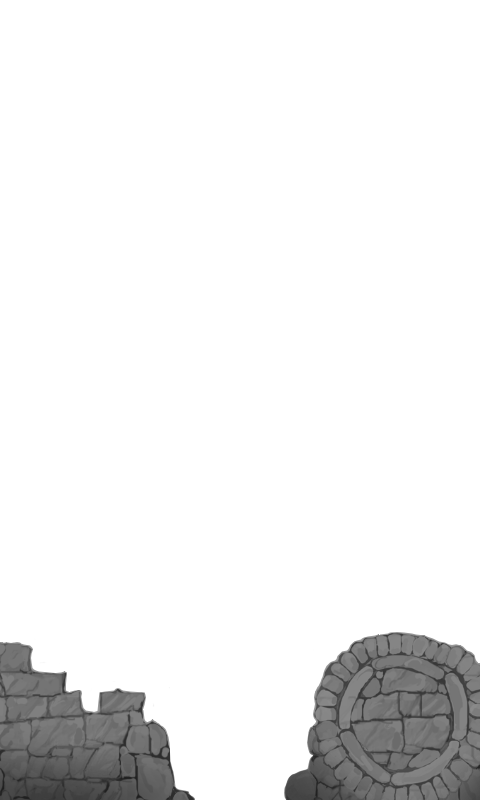
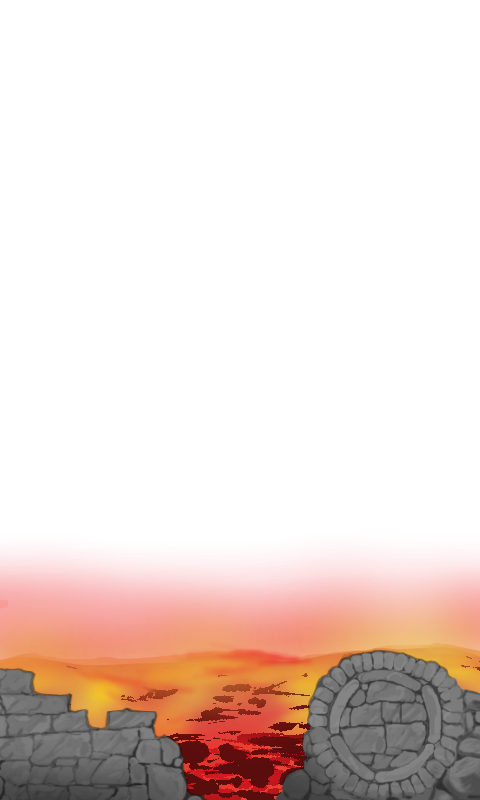
Changed bg and effects size Combined UI and DZ added spikes (no death mechanic yet)

Changed region(s): [[0.0, 0.6875, 1.0, 1.0], [0.0312, 0.9688, 0.0625, 1.0]]

diff --git a/core/src/com/mygdx/game/states/PlayState.java b/core/src/com/mygdx/game/states/PlayState.java
@@ -16,6 +16,7 @@ import com.mygdx.game.objects.Door;
 import com.mygdx.game.objects.Obstacle;
 import com.mygdx.game.objects.Power;
 import com.mygdx.game.objects.SideWall;
+import com.mygdx.game.objects.Spikes;
 import com.mygdx.game.objects.Switch;
 import com.mygdx.game.objects.JoyStick;
 import com.mygdx.game.objects.Player;
@@ -58,9 +59,9 @@ public abstract class PlayState extends State{
     private ArrayList<GameObject> switches = new ArrayList<GameObject>();
     private ArrayList<GameObject> doors = new ArrayList<GameObject>();
     private ArrayList<GameObject> powers = new ArrayList<GameObject>();
+    private ArrayList<GameObject> spikes = new ArrayList<GameObject>();
     private ArrayList<GameObject> bg = new ArrayList<GameObject>();
     private ArrayList<GameObject> effects = new ArrayList<GameObject>();
-    private ArrayList<GameObject> dz = new ArrayList<GameObject>();
     private ArrayList<GameObject> ui = new ArrayList<GameObject>();
     private ArrayList<GameObject> icons = new ArrayList<GameObject>();
 
@@ -98,11 +99,11 @@ public abstract class PlayState extends State{
         gameObjects.add(powers);
         gameObjects.add(doors);
         gameObjects.add(obstacles);
+        gameObjects.add(spikes);
         gameObjects.add(sideWalls);
         gameObjects.add(switches);
         gameObjects.add(new ArrayList<GameObject>(Collections.singletonList(player)));
         gameObjects.add(effects);
-        gameObjects.add(dz);
         gameObjects.add(ui);
         gameObjects.add(icons);
 
@@ -162,7 +163,7 @@ public abstract class PlayState extends State{
         }
         if (trackerBG <= 800) {
             spawnBg();
-            trackerBG += 800;
+            trackerBG += 200;
         }
         // tell the camera to update its matrices.
         cam.update();
@@ -237,13 +238,15 @@ public abstract class PlayState extends State{
     }
 
     private void createBg(){
-        Background backg = new Background(0);
-        Overlay effect = new Overlay(0);
-        DangerZone danger = new DangerZone(0);
+        int counter = 0;
+        while (counter*200 < 800) {
+            Background backg = new Background(counter*200);
+            Overlay effect = new Overlay(counter*200);
+            bg.add(backg);
+            effects.add(effect);
+            counter++;
+        }
         UI inter = new UI(0);
-        bg.add(backg);
-        effects.add(effect);
-        dz.add(danger);
         ui.add(inter);
     }
 
@@ -281,6 +284,8 @@ public abstract class PlayState extends State{
                 case DOOR:
                     doors.add(new Door((tileLength * (i % GAME_WIDTH)) + 15, tracker, tileLength, tileLength));
                     break;
+                case SPIKES:
+                    spikes.add(new Spikes((tileLength * (i % GAME_WIDTH)) + 15, tracker, tileLength, tileLength));
             }
         }
     }

diff --git a/core/src/com/mygdx/game/states/PlayStateHost.java b/core/src/com/mygdx/game/states/PlayStateHost.java
@@ -84,6 +84,15 @@ public class PlayStateHost extends PlayState {
             }
         }
 
+        // creating random spikes
+        int spikeNo = MathUtils.random(0,3);
+        for (int j = 0; j < spikeNo; j++) {
+            int pos = MathUtils.random(0,8);
+            if (new_row[pos] == MapTile.OBSTACLES){
+                new_row[pos] = MapTile.SPIKES;
+            }
+        }
+
         // spawning power ups after a certain time. 20 is default. 5 is for testing
         if (powerCounter > 20){
             while (true){
@@ -107,46 +116,8 @@ public class PlayStateHost extends PlayState {
         }
 
         // updating the memory
-        // 0 = wall, 1 = empty but unreachable, 2 = empty and reachable
-
         memory.remove(memory.size()-1);
         memory.add(0, new_row);
-
-//        for (int i = memory.length-1; i > 0; i--){
-//            System.arraycopy(memory[i-1],0,memory[i],0,memory[i-1].length);
-//        }
-//        for (int i = 0; i < new_row.length; i++){
-//            if (new_row[i] == MapTile.OBSTACLES){
-//                memory[0][i] = 0;
-//            }
-//            else if (new_row[i] == MapTile.EMPTY){
-//                memory[0][i] = 1;
-//            }
-//            if (current[i]){
-//                memory[0][i] = 2;
-//            }
-//        }
-//        for (int i = 1; i < memory.length; i++){
-//            int temp = 0;
-//            for (int j = 0; j < memory[i].length; j++){
-//                if ((memory[i-1][j] == 2) && (memory[i][j] == 1)){
-//                    memory[i][j] = 2;
-//                    temp = j;
-//                }
-//            }
-//            for (int j = 0; j < memory[i].length; j++){
-//                if (temp-j >= 0){
-//                    if ((memory[i][temp-j] == 1) && (memory[i][temp-j+1] == 2)){
-//                        memory[i][temp-j] = 2;
-//                    }
-//                }
-//                if ((temp+j < 9) && (temp+j-1 > 0)){
-//                    if ((memory[i][temp+j] == 1) && (memory[i][temp+j-1] == 2)){
-//                        memory[i][temp+j] = 2;
-//                    }
-//                }
-//            }
-//        }
 
         int i = out_index;
         int j = 0;

diff --git a/core/src/com/mygdx/game/objects/Spikes.java b/core/src/com/mygdx/game/objects/Spikes.java
@@ -1,0 +1,26 @@
+package com.mygdx.game.objects;
+
+import com.badlogic.gdx.Gdx;
+import com.badlogic.gdx.graphics.Texture;
+import com.mygdx.game.Interface.Collidable;
+import com.mygdx.game.states.PlayState;
+
+/**
+ * Created by Samuel on 26/3/2016.
+ */
+public class Spikes extends Movable implements Collidable {
+    public Spikes(float x, float y, float width, float height){
+        super(x, y, width, height);
+        this.setImage(new Texture(Gdx.files.internal("spikes.png")));
+    }
+
+    @Override
+    public boolean collides(Player player, PlayState playState) {
+        if (player.overlaps(this)) {
+            return true;
+        }
+        else {
+            return false;
+        }
+    }
+}

diff --git a/core/src/com/mygdx/game/objects/Background.java b/core/src/com/mygdx/game/objects/Background.java
@@ -8,7 +8,7 @@ import com.badlogic.gdx.graphics.Texture;
  */
 public class Background extends Movable{
     public Background(float y){
-        super(0, y, 480, 800);
+        super(0, y, 480, 200);
         this.setImage(new Texture(Gdx.files.internal("bg.png")));
     }
 }

diff --git a/core/src/com/mygdx/game/objects/Overlay.java b/core/src/com/mygdx/game/objects/Overlay.java
@@ -8,7 +8,7 @@ import com.badlogic.gdx.graphics.Texture;
  */
 public class Overlay extends Movable{
     public Overlay(float y){
-        super(0, y, 480, 800);
+        super(0, y, 480, 200);
         this.setImage(new Texture(Gdx.files.internal("effects1.png")));
     }
 }

diff --git a/core/src/com/mygdx/game/customEnum/MapTile.java b/core/src/com/mygdx/game/customEnum/MapTile.java
@@ -4,5 +4,5 @@ package com.mygdx.game.customEnum;
  * Created by Samuel on 23/3/2016.
  */
 public enum MapTile {
-    EMPTY, OBSTACLES, POWER, DOOR, SWITCH;
+    EMPTY, OBSTACLES, POWER, DOOR, SWITCH, SPIKES;
 }
